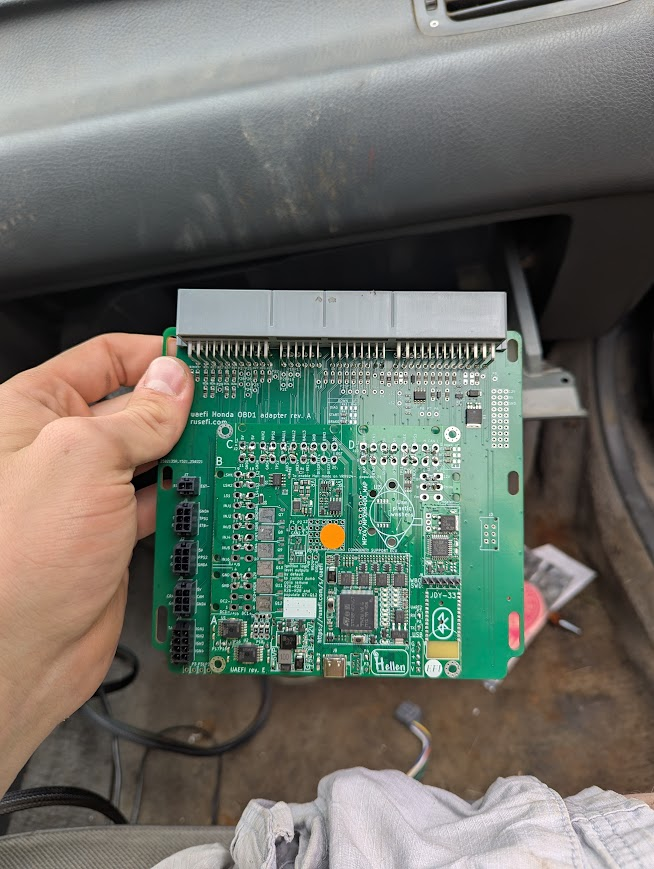
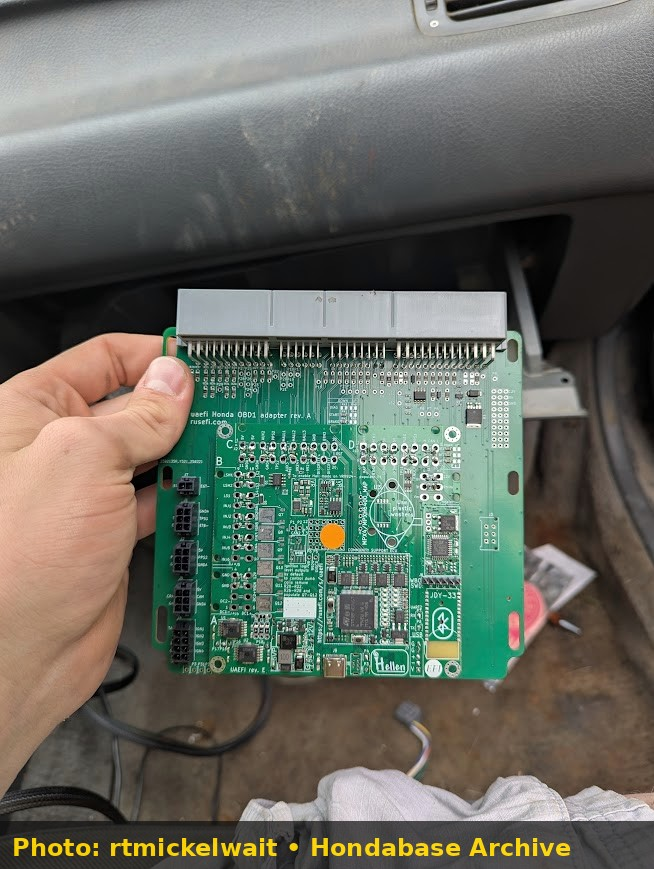
Clean up dead images and callout formatting in two articles
Removes duplicated section and unusable/broken source images
(topic_618_WvhBrz7.png, topic_618_attachment_1786275719661.jpg,
topic_1276_attachment_1786275769060.gif) from the COP conversion and
Beat/Acty EFI conversion articles, unescapes a GFM alert block, and
adds a photo credit caption.

Changed region(s): [[0.0, 0.9321, 1.0, 1.0]]

diff --git a/cars/electronics/honda-distributor-to-coil-on-plug-cop-conversion/honda-distributor-to-coil-on-plug-cop-conversion.md b/cars/electronics/honda-distributor-to-coil-on-plug-cop-conversion/honda-distributor-to-coil-on-plug-cop-conversion.md
@@ -49,7 +49,8 @@ Factory Honda distributor internal ignition coils and igniters (ICMs) are prone 
 2. Retain the internal VR sensors (CKP, TDC, CYP) and distributor shaft to serve purely as the engine position trigger.
 3. Route 4 individual 5V logic signal wires from your ECU's ignition outputs (`Ign 1`, `Ign 2`, `Ign 3`, `Ign 4`) to each corresponding cylinder's coil plug.
 
-> \[!IMPORTANT\] Configure ignition outputs for **5V Logic Level Output** (Active High / Falling Edge trigger depending on ECU hardware). Incorrect polarity will cause thermal overload of the coil internal igniter.
+> [!IMPORTANT]
+> Configure ignition outputs for **5V Logic Level Output** (Active High / Falling Edge trigger depending on ECU hardware). Incorrect polarity will cause thermal overload of the coil internal igniter.
 
 ---
 
@@ -65,18 +66,5 @@ Factory Honda distributor internal ignition coils and igniters (ICMs) are prone 
 
 ## 4. Hardware Installation & Coil Mounting
 
-![D-Series COP Conversion Coil Bracket & Wiring](topic_2980_AP1GczMfhm6t5ufVBGIfYU709LW1xbRG-lk9ij5mP1-YCqEW330EuLpKcwgDV85vGbm8TvMRjsOQi9UfgdxjmuDk3JdjZr6TD7jBuHkp2q8WZFUBKYZhAgVpZf2PDObCvjNQJV9I_1NHsW-hsm8OpfIMOXTnqg_w654-h869-s-no-gm.jpg)*D-series coil-on-plug conversion plate and Denso smart coil mounting setup.*
-
----
-
-## 4. Hardware Installation & Wiring Schematics
-
-![D-Series COP Conversion Plate & Coil Mounting](topic_2980_AP1GczMfhm6t5ufVBGIfYU709LW1xbRG-lk9ij5mP1-YCqEW330EuLpKcwgDV85vGbm8TvMRjsOQi9UfgdxjmuDk3JdjZr6TD7jBuHkp2q8WZFUBKYZhAgVpZf2PDObCvjNQJV9I_1NHsW-hsm8OpfIMOXTnqg_w654-h869-s-no-gm.jpg)*D-series coil-on-plug conversion plate and Denso smart coil mounting setup.*
-
-### Sequential Coil & VTEC Wiring Schematic
-
-![Coil-on-Plug & VTEC Wiring Schematic](topic_618_WvhBrz7.png)*Coil-on-plug 5V logic signal wiring and VTEC output trigger schematic.*
-
-### Harness Connector Detail
-
-![Factory VTEC & Ignition Plug](topic_618_attachment_1786275719661.jpg)*Factory harness plug reference for ignition signal tap.*
+![D-Series COP Conversion Coil Bracket & Wiring](topic_2980_AP1GczMfhm6t5ufVBGIfYU709LW1xbRG-lk9ij5mP1-YCqEW330EuLpKcwgDV85vGbm8TvMRjsOQi9UfgdxjmuDk3JdjZr6TD7jBuHkp2q8WZFUBKYZhAgVpZf2PDObCvjNQJV9I_1NHsW-hsm8OpfIMOXTnqg_w654-h869-s-no-gm.jpg)
+*D-series coil-on-plug conversion plate and Denso smart coil mounting setup (photo: rtmickelwait).*

diff --git a/cars/fueling/honda-beat-acty-e07a-carb-to-efi-conversion/honda-beat-acty-e07a-carb-to-efi-conversion.md b/cars/fueling/honda-beat-acty-e07a-carb-to-efi-conversion/honda-beat-acty-e07a-carb-to-efi-conversion.md
@@ -57,9 +57,4 @@ On ITB-equipped E07A engines (Honda Beat), manifold pressure signal pulses viole
 ## 4. ITB Assembly & Custom ECU Adapter
 
 ![Honda Beat E07A MTREC ITB Throttle Body Assembly](topic_1276_Q7yVskU.png)
-*E07A 3-cylinder ITB throttle body and standalone ECU harness adapter.*
-
-### Throttle Linkage Mechanism
-
-![E07A ITB Throttle Linkage Animation](topic_1276_attachment_1786275769060.gif)
-*Honda Beat MTREC individual throttle body linkage movement.*
+*E07A 3-cylinder ITB throttle body and standalone ECU harness adapter (photo: reymiguel).*
